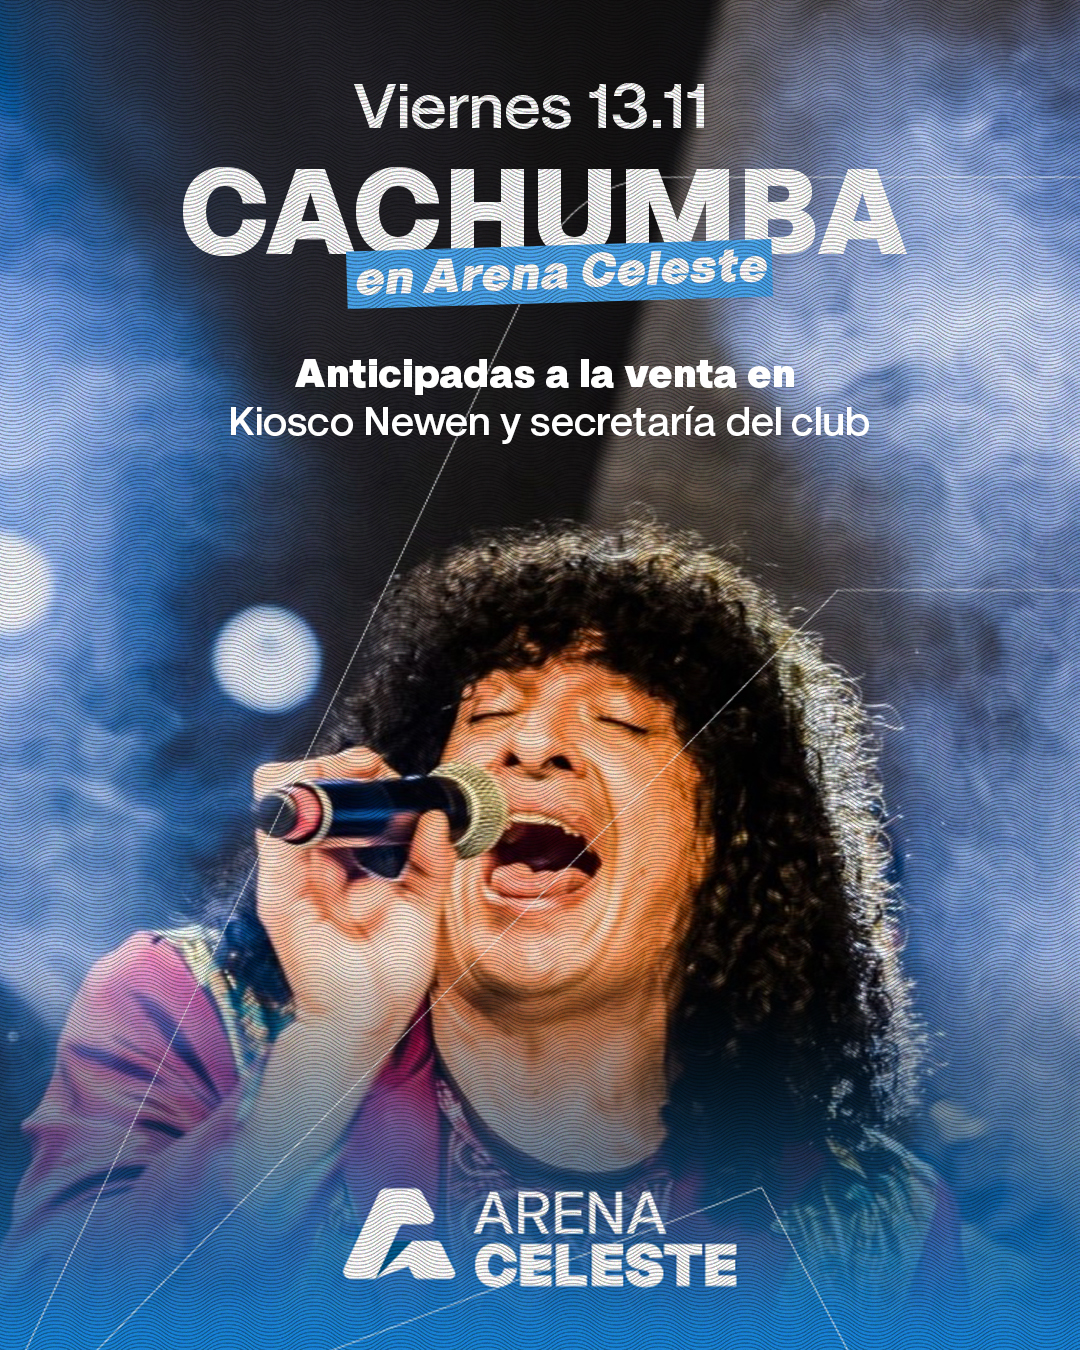
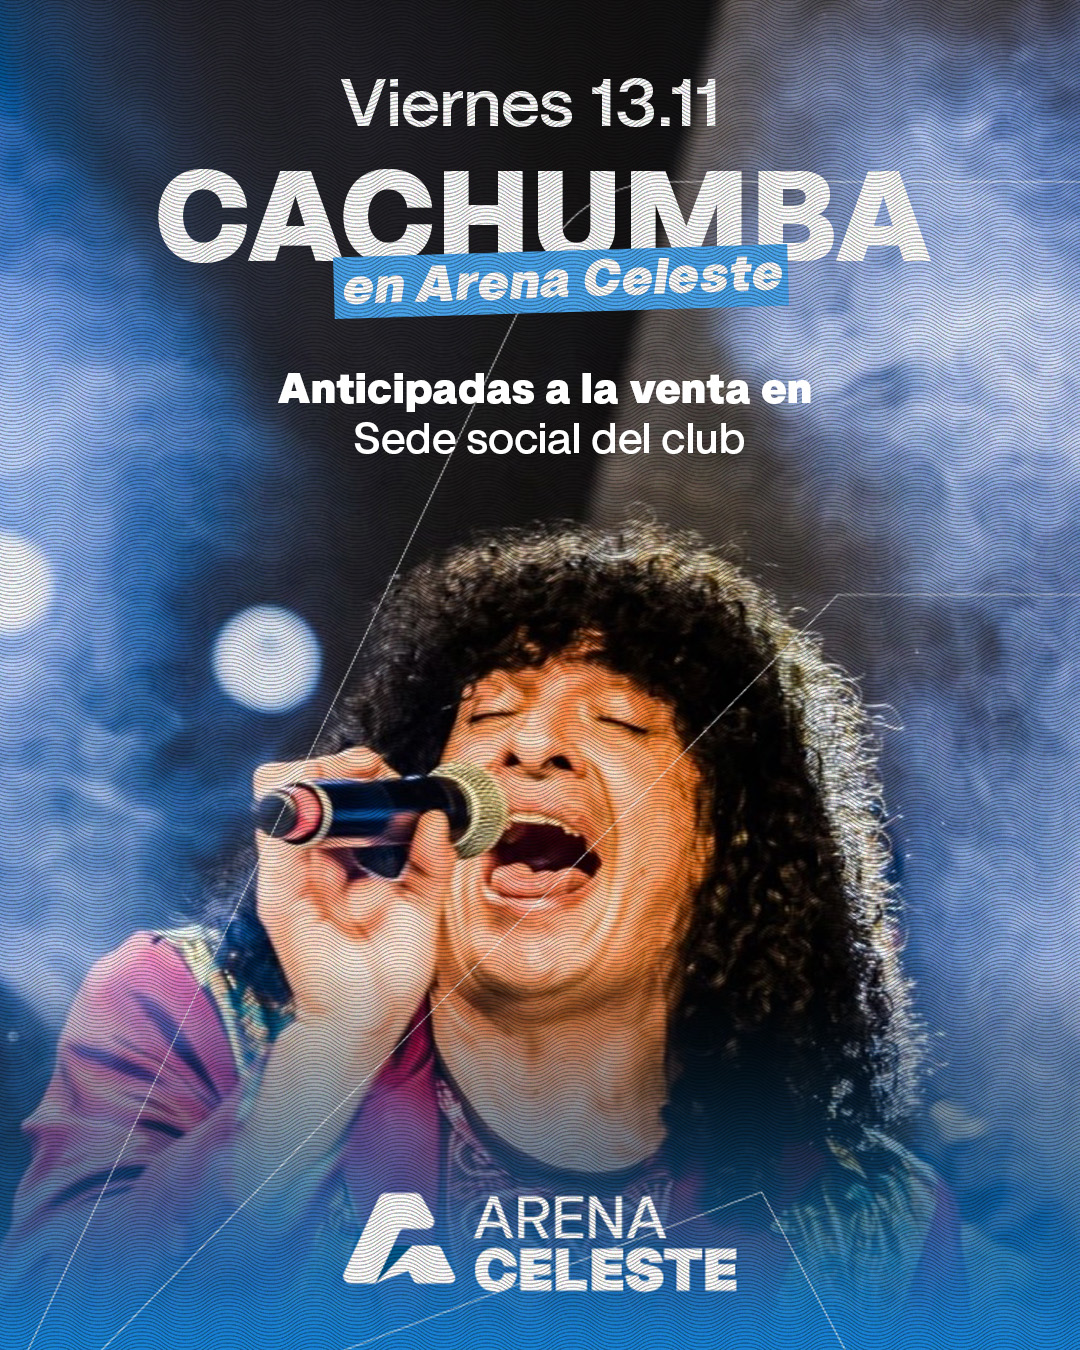
Update Cachumba poster and ticket details

diff --git a/index.html b/index.html
@@ -300,12 +300,12 @@
           <ul class="show-facts">
             <li><strong>Horario</strong>De 1:00 a 5:00 hs · 4 selecciones a puro cuarteto</li>
             <li><strong>Lugar</strong>Arena Celeste – Club Estudiantes de Río Cuarto</li>
-            <li><strong>Entradas anticipadas</strong>Kiosco Newen y Secretaría del Club Estudiantes</li>
+            <li><strong>Entradas anticipadas</strong>Secretaría del Club</li>
           </ul>
           <p class="ticket-note">Consultá por WhatsApp para comprar tu entrada.</p>
           <a class="whatsapp-button" href="https://wa.me/5493585621059?text=Hola%2C%20quiero%20comprar%20una%20entrada%20para%20Cachumba%20en%20Arena%20Celeste." target="_blank" rel="noopener noreferrer" aria-label="Comprar entrada por WhatsApp al +54 9 3585 62-1059">
             <svg viewBox="0 0 32 32" aria-hidden="true"><path fill="currentColor" d="M16.04 2.67A12.6 12.6 0 0 0 5.3 21.86L3.62 28l6.29-1.65a12.6 12.6 0 1 0 6.13-23.68Zm0 23.03c-1.96 0-3.89-.53-5.58-1.53l-.4-.24-3.72.98 1-3.63-.26-.42a10.37 10.37 0 1 1 8.96 4.84Zm5.69-7.77c-.31-.16-1.84-.91-2.13-1.01-.29-.11-.5-.16-.71.16-.21.31-.81 1.01-.99 1.22-.18.21-.36.24-.67.08-.31-.16-1.31-.48-2.49-1.53-.92-.82-1.54-1.84-1.72-2.15-.18-.31-.02-.48.14-.64.14-.14.31-.36.47-.54.16-.18.21-.31.31-.52.1-.21.05-.39-.03-.55-.08-.16-.71-1.71-.97-2.34-.26-.62-.52-.53-.71-.54l-.6-.01c-.21 0-.55.08-.84.39-.29.31-1.1 1.07-1.1 2.61s1.13 3.03 1.28 3.24c.16.21 2.22 3.39 5.38 4.76.75.32 1.33.52 1.79.66.75.24 1.43.21 1.97.13.6-.09 1.84-.75 2.1-1.48.26-.73.26-1.35.18-1.48-.08-.13-.29-.21-.6-.37Z"/></svg>
-            Comprar entrada
+            Comprar entradas
           </a>
         </div>
         <figure class="show-poster"><img src="cachumba-rio-cuarto.jpg" alt="Afiche oficial del show de Cachumba en Arena Celeste"></figure>
